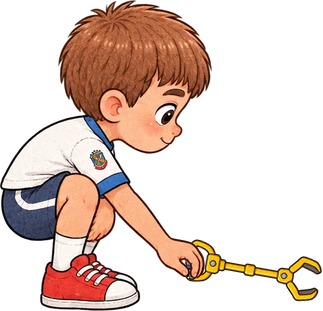
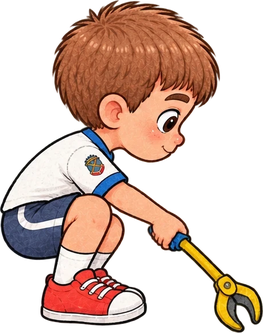
Antônio com a garra: frente, perfil e pegar do chão usam a ilustração com a garra
- poses_com_garra.py recorta a ilustração e põe na escala dos quadros sem garra
- piscar e falar segurando a garra: rostos aplicados sobre a frente com a garra (rostos_frente.py --shift)

Claude-Session: https://claude.ai/code/session_01PVcgpF37vhDNSTNALVDodv

diff --git a/Design/tools/rostos_frente.py b/Design/tools/rostos_frente.py
@@ -1,22 +1,26 @@
 """Troca só o rosto da vista de frente do modelo pelos rostos de outra imagem (piscando, falando...).
 O resto do corpo continua o do modelo, então os quadros ficam alinhados pixel a pixel com a frente.
-Uso: python3 -I faces.py <modelo_frente.png> <imagem_com_variacoes.png> <pasta_saida> nome1 nome2 ..."""
+Uso: python3 -I rostos_frente.py <modelo_frente.png> <imagem_com_variacoes.png> <pasta_saida> nome1 nome2 ... [--shift dx dy]
+--shift: onde fica o rosto quando a imagem base não é a frente do modelo (ex.: a frente segurando a garra)."""
 import sys
 import numpy as np, cv2
 from PIL import Image
-model_p, var_p, out = sys.argv[1:4]; names = sys.argv[4:]
+args = sys.argv[1:]; SHIFT = (0, 0)
+if '--shift' in args:
+    k = args.index('--shift'); SHIFT = (int(args[k + 1]), int(args[k + 2])); args = args[:k] + args[k + 3:]
+model_p, var_p, out = args[:3]; names = args[3:]
 M = np.array(Image.open(model_p).convert('RGBA')); H, W = M.shape[:2]
 V = np.array(Image.open(var_p).convert('RGBA'))
 n, lab, st, _ = cv2.connectedComponentsWithStats((V[..., 3] > 40).astype(np.uint8), 8)
 figs = sorted([i for i in range(1, n) if st[i, 4] > 3000], key=lambda i: st[i, 0])
-FACE = (72, 92, 238, 228)                 # x0, y0, x1, y1 do rosto (sobrancelhas até o queixo) na frente do modelo
-HEAD_Y = 250
+FACE = (72 + SHIFT[0], 92 + SHIFT[1], 238 + SHIFT[0], 228 + SHIFT[1])   # rosto (sobrancelhas até o queixo) na frente do modelo
+HEAD_Y = 250 + SHIFT[1]
 yy, xx = np.mgrid[0:H, 0:W]
 cx, cy = (FACE[0] + FACE[2]) / 2, (FACE[1] + FACE[3]) / 2; rx, ry = (FACE[2] - FACE[0]) / 2, (FACE[3] - FACE[1]) / 2
 ell = ((xx - cx) / rx) ** 2 + ((yy - cy) / ry) ** 2
 face_mask = np.clip((1.15 - ell) / 0.3, 0, 1)          # 1 no meio do rosto, some suave na borda
 # piscar troca só os olhos (com as sobrancelhas); falar troca só a boca — o resto do rosto fica o da frente
-REGIONS = {'eyes': (155, 146, 92, 56), 'mouth': (154, 206, 44, 24)}      # cx, cy, rx, ry
+REGIONS = {'eyes': (155 + SHIFT[0], 146 + SHIFT[1], 92, 56), 'mouth': (154 + SHIFT[0], 206 + SHIFT[1], 44, 24)}   # cx, cy, rx, ry
 def region_mask(name):
     cxr, cyr, rxr, ryr = REGIONS['eyes' if name == 'blink' else 'mouth']
     e = ((xx - cxr) / rxr) ** 2 + ((yy - cyr) / ryr) ** 2

diff --git a/Design/tools/poses_com_garra.py b/Design/tools/poses_com_garra.py
@@ -1,0 +1,31 @@
+"""Usa a ilustração do Antônio segurando o braço mecânico (Design/personagens/v4/antonio-poses-com-garra.png) como a
+versão "com garra" dos quadros: 1ª figura = frente, 2ª = perfil, 3ª = pegando do chão (a 4ª, sentado, não é usada:
+na cadeira ele é o boneco). Os desenhos entram como estão, só recortados e na escala do quadro sem garra.
+Uso: python3 -I poses_com_garra.py <antonio-poses-com-garra.png> <pasta antonio-frames>"""
+import sys, json
+import numpy as np, cv2
+from PIL import Image
+src, D = sys.argv[1:3]
+fj = f'{D}/frames.json'; meta = json.load(open(fj)); frames = meta['frames']
+a = np.array(Image.open(src).convert('RGBA'))
+n, lab, st, _ = cv2.connectedComponentsWithStats((a[..., 3] > 40).astype(np.uint8), 8)
+figs = sorted([i for i in range(1, n) if st[i, 4] > 3000], key=lambda i: st[i, 0])
+def crop(i):
+    x, y, w, h = st[i, :4]
+    m = cv2.dilate((lab[y:y + h, x:x + w] == i).astype(np.uint8), np.ones((3, 3), np.uint8)) > 0
+    c = a[y:y + h, x:x + w].copy(); c[~m, 3] = 0; return Image.fromarray(c)
+def pivot_x(im):
+    A = np.array(im)[..., 3] > 0; hh = A.shape[0]
+    return float(np.where(A[int(hh * 0.12):int(hh * 0.5)])[1].mean()) / im.width
+s_side = None
+for name, i in zip(['front', 'side', 'pickUp'], figs[:3]):
+    im = crop(i)
+    if name == 'pickUp': s = s_side                         # agachado: mesma escala do perfil em pé
+    else: s = frames[name]['size'][1] / im.height           # em pé: mesma altura do quadro sem garra
+    if name == 'side': s_side = s
+    im = im.resize((round(im.width * s), round(im.height * s)), Image.LANCZOS)
+    im.save(f'{D}/{name}-garra.png')
+    frames[name]['fileHolding'] = f'assets/characters/antonio-frames/{name}-garra.png'
+    frames[name]['pivotHolding'] = [round(pivot_x(im), 4), 0.0]
+    print(name, im.size, frames[name]['pivotHolding'])
+json.dump(meta, open(fj, 'w'), indent=1, ensure_ascii=False)

diff --git a/README.md b/README.md
@@ -147,7 +147,8 @@ canela com o pé, de frente e de trás) e um ciclo de caminhada feito por códig
 Parado ele usa a frente do modelo v4 (`Design/tools/quadros_modelo_v4.py`, com a garra desenhada na mão pelo jogo);
 pisca e fala com os rostos novos (`Design/tools/rostos_frente.py`); olhar para cima/baixo e pegar do chão vêm de
 `Design/personagens/v4/antonio-poses-perfil.png` (`Design/tools/poses_perfil_v4.py`, que também gera a versão com a garra
-na frente da perna). Com o braço mecânico, as vistas do modelo (e piscar/falar) usam a mão fechada de
+na frente da perna). Com o braço mecânico, frente, perfil e pegar do chão usam a ilustração `Design/personagens/v4/antonio-poses-com-garra.png`
+(`Design/tools/poses_com_garra.py`; piscar/falar com a garra = rostos aplicados sobre ela); as outras vistas do modelo (e piscar/falar) usam a mão fechada de
 `Design/personagens/v4/antonio-modelo-mao-fechada.png`, colada por `Design/tools/mao_fechada.py` com a garra passando
 por dentro do punho (`<nome>-garra.png`). Sentado na cadeira ele usa o boneco (`ApplySit`); o desenho ajoelhado da folha ficou como `kneel`.
 
